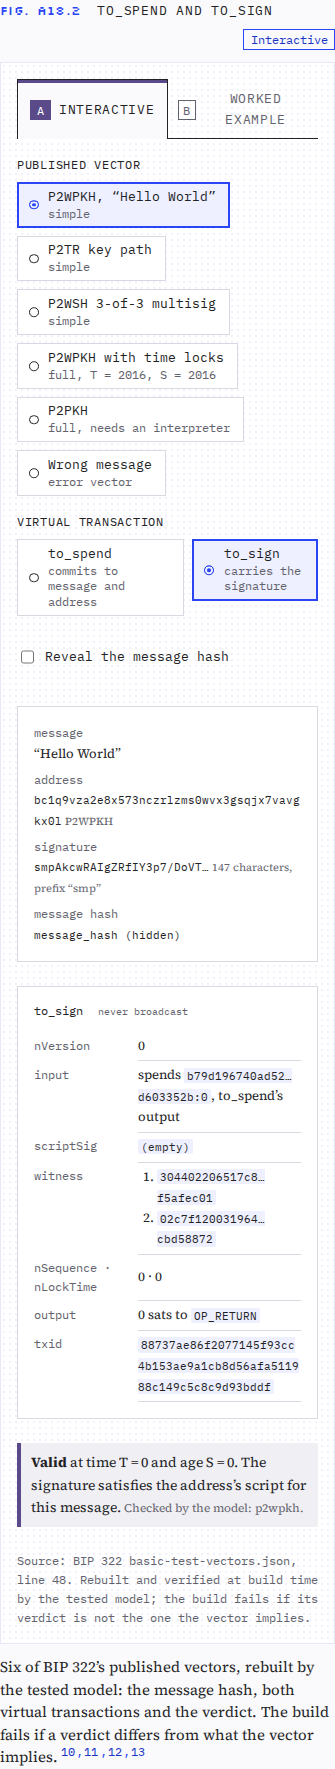
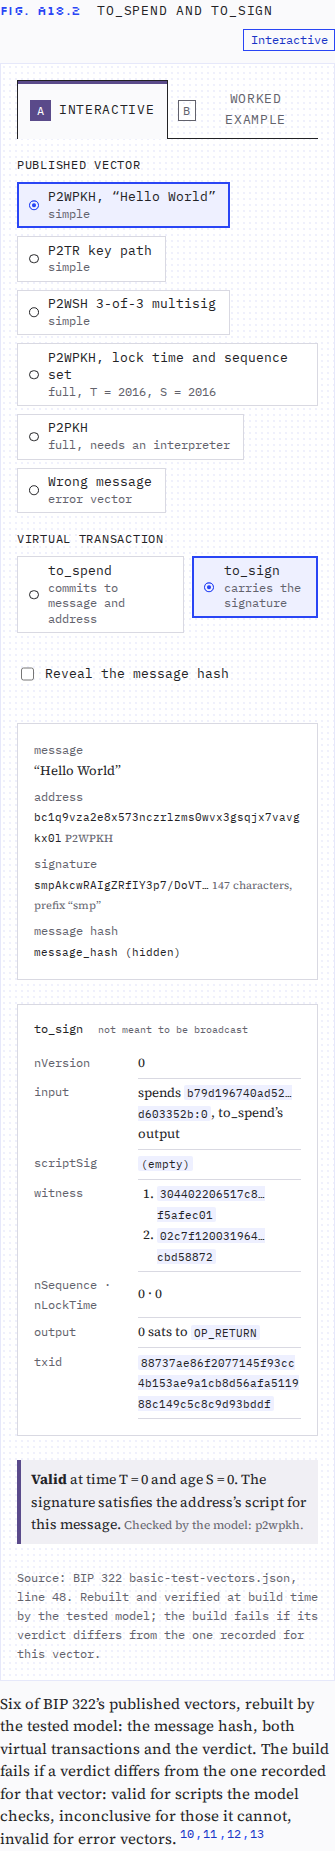
Message signing: apply independent review
P2TR sighash restriction, empty scriptSig for native SegWit, rule order,
extra-input and empty-witness verdicts (with regression tests); legacy
footnotes, required-rules list, lock-time exception, timestamp caveat and
recorded-verdict wording. Phase-three review record complete.

Claude-Session: https://claude.ai/code/session_01QKioyx8RLEZkE9rL1EegCS

diff --git a/packages/models/test/bip322.test.ts b/packages/models/test/bip322.test.ts
@@ -1,7 +1,12 @@
 import { readFileSync } from "node:fs";
 import { describe, expect, it } from "vitest";
 import { base64 } from "@scure/base";
-import { hexToBytes } from "../src/hex";
+import { schnorr } from "@noble/curves/secp256k1.js";
+import { sha256 } from "@noble/hashes/sha2.js";
+import { createBase58check } from "@scure/base";
+import { bytesToHex, hexToBytes } from "../src/hex";
+import { sigMsg, taprootSighash, tweakSeckey } from "../src/taproot";
+import { parseTransaction } from "../src/tx";
 import { addressScript, decodeSignature, messageHash, toSign, toSpend, verify } from "../src/bip322";
 
 const root = new URL("../../../", import.meta.url);
@@ -91,7 +96,7 @@ describe("message-signing chapter prose numbers", () => {
     expect(b322[17]).toContain("Version: 2.0.0");
     has("BIP 322, assigned in 2018 and recorded as Complete at version 2.0.0");
     expect(["smp", "ful", "pof"].every((p) => p.length === 3)).toBe(true);
-    has("each marked by a three-letter prefix");
+    has("each new format marked by a three-letter prefix");
     expect(b322[140]).toContain("vin[0].prevout.n = 0xFFFFFFFF");
     has("spends output 0xFFFFFFFF of a transaction whose ID is all zeros");
     expect(b322[331]).toContain("PSBT_GLOBAL_GENERIC_SIGNED_MESSAGE = 0x09");
@@ -106,11 +111,54 @@ describe("message-signing chapter prose numbers", () => {
     expect(w.length).toBe(5);
     expect(w[0]).toBe("");
     expect(w[w.length - 1]).toBe(ms.witness_script);
-    has("a 3-of-3 multisig address, whose “signature” is three ECDSA signatures and the witness script");
+    has("a 3-of-3 multisig address, whose “signature” is three ECDSA signatures, an empty dummy item and the witness script");
     expect(basic.simple.some((v: { bip322_signatures: string[] }) => v.bip322_signatures.some((s) => !/^(smp|ful|pof)/.test(s)))).toBe(true);
     has("one of the published vectors tests exactly that");
     const fx = JSON.parse(readFileSync(new URL("fixtures/message-signing.json", root), "utf8")).fixtures;
     expect(fx.filter((f: { kind: string }) => f.kind === "bip322-vector").length).toBe(6);
     has("Six of BIP 322’s published vectors");
+  });
+});
+
+describe("review regressions", () => {
+  // Test-only: re-sign the published P2TR vector's message with the vector's own (public) key and other sighash types.
+  const v = gen.simple[1];
+  const wif = createBase58check(sha256).decode(v.private_keys[0]);
+  const sk = bytesToHex(wif.slice(1, 33));
+  const dk = tweakSeckey(sk, "");
+  const spk = addressScript(v.address).spk;
+  const signWith = (ht: number) => {
+    const spend = toSpend(messageHash(v.message), spk);
+    const tx = parseTransaction(toSign(spend.txid, { witness: ["00".repeat(65)] }).witnessHex);
+    const digest = taprootSighash(sigMsg(tx, [{ scriptPubKeyHex: spk, amountSats: 0n }], 0, ht));
+    const sig = bytesToHex(schnorr.sign(hexToBytes(digest), hexToBytes(dk), new Uint8Array(32))) + ht.toString(16).padStart(2, "0");
+    return "smp" + base64.encode(Uint8Array.from([1, 65, ...hexToBytes(sig)]));
+  };
+
+  it("P2TR: SIGHASH_ALL is accepted, other hash types are invalid", () => {
+    expect(verify(v.address, v.message, signWith(0x01)).state).toBe("valid");
+    for (const ht of [0x02, 0x03, 0x81]) expect(verify(v.address, v.message, signWith(ht)).state).toBe("invalid");
+  });
+
+  it("P2TR: an empty witness is invalid", () => {
+    expect(verify(v.address, v.message, "smpAA==").state).toBe("invalid");
+  });
+
+  it("full P2WPKH with a non-empty scriptSig is invalid", () => {
+    const f = gen.full[1];
+    const hex = bytesToHex(base64.decode(f.bip322_signatures[0].slice(3)));
+    // version (8) + marker/flag (4) + input count (2) + outpoint (72), then the scriptSig length byte "00"
+    const at = 8 + 4 + 2 + 72;
+    expect(hex.slice(at, at + 2)).toBe("00");
+    const bad = hex.slice(0, at) + "020151" + hex.slice(at + 2);
+    expect(verify(f.address, f.message, f.bip322_signatures[0]).state).toBe("valid");
+    expect(verify(f.address, f.message, "ful" + base64.encode(hexToBytes(bad))).state).toBe("invalid");
+  });
+
+  it("required rules come before the version rule", () => {
+    const f = gen.full[1];
+    const hex = bytesToHex(base64.decode(f.bip322_signatures[0].slice(3)));
+    const v1 = "01000000" + hex.slice(8);
+    expect(verify(f.address, f.message, "ful" + base64.encode(hexToBytes(v1))).state).toBe("invalid");
   });
 });

diff --git a/packages/models/src/bip322.ts b/packages/models/src/bip322.ts
@@ -3,7 +3,14 @@
  * the two virtual transactions to_spend and to_sign, decoding of "simple"
  * and "full" signatures, and verification of the script types this model
  * can check without a script interpreter: P2WPKH, P2TR key path, and P2WSH
- * m-of-n CHECKMULTISIG. Everything else is reported as not checked.
+ * m-of-n CHECKMULTISIG. Everything else is reported as inconclusive.
+ *
+ * Required rules enforced for those types: SIGHASH_ALL (or SIGHASH_DEFAULT
+ * for P2TR); strict DER and low S for ECDSA; the CHECKMULTISIG dummy and
+ * exact witness shape (clean stack); an empty scriptSig for native SegWit.
+ * MINIMALDATA, MINIMALIF, CODESEPARATOR and FindAndDelete cannot arise in
+ * these templates. The upgradeable version rule (0 or 2) is applied after
+ * the script check, as the BIP orders them.
  *
  * Verification only: it never signs. Hashing from @noble/hashes, curves
  * from @noble/curves (ECDSA and BIP 340 verification), base58 and bech32
@@ -140,12 +147,13 @@ export function verify(address: string, message: string, signature: string): Ver
   const legacyHex = (() => { const v = tx.versionHex, lt = tx.locktimeHex; const ins = "01" + tx.inputs.map((i) => i.prevoutHex + push(i.scriptSigHex) + i.sequenceHex).join(""); return v + ins.replace(/^01/, varint(tx.inputs.length)) + varint(tx.outputs.length) + tx.outputs.map((o) => rev(o.valueSats.toString(16).padStart(16, "0")) + push(o.scriptPubKeyHex)).join("") + lt; })();
   sign.hex = legacyHex; sign.txid = txid(legacyHex);
   const version = parseInt(rev(tx.versionHex), 16);
-  if (version !== 0 && version !== 2) return { state: "inconclusive", reason: "to_sign version must be 0 or 2", toSpend: spend, toSign: sign, checked: "structure" };
   const w = tx.witnesses[0] ?? [];
   const T = parseInt(rev(tx.locktimeHex), 16), S = parseInt(rev(tx.inputs[0].sequenceHex), 16);
-  const valid = { state: "valid" as const, time: T, age: S };
+  // Upgradeable rule (checked after the required rules): version 0 or 2, else inconclusive.
+  const valid = version === 0 || version === 2 ? { state: "valid" as const, time: T, age: S } : { state: "inconclusive" as const, reason: "to_sign version must be 0 or 2" };
   const bad = (reason: string) => ({ state: "invalid" as const, reason, toSpend: spend, toSign: sign });
-  if (tx.inputs.length !== 1) return { state: "inconclusive", reason: "additional inputs are outside this model", toSpend: spend, toSign: sign, checked: "structure" };
+  if (tx.inputs.length !== 1) return { ...bad("a full signature cannot carry the UTXOs of additional inputs"), checked: "structure" };
+  if ((kind === "p2wpkh" || kind === "p2wsh" || kind === "p2tr") && tx.inputs[0].scriptSigHex !== "") return { ...bad("invalid signature: native SegWit requires an empty scriptSig"), checked: kind };
   if (kind === "p2wpkh") {
     const h = spk.slice(4);
     if (w.length !== 2 || bytesToHex(hash160(hexToBytes(w[1]))) !== h) return { ...bad("invalid signature: witness does not match the key hash"), checked: "p2wpkh" };
@@ -153,7 +161,10 @@ export function verify(address: string, message: string, signature: string): Ver
     return ecdsaOk(w[0], w[1], d) ? { ...valid, toSpend: spend, toSign: sign, checked: "p2wpkh" } : { ...bad("invalid signature"), checked: "p2wpkh" };
   }
   if (kind === "p2tr") {
-    if (w.length !== 1) return { state: "inconclusive", reason: "script-path spends are outside this model", toSpend: spend, toSign: sign, checked: "p2tr" };
+    if (w.length === 0) return { ...bad("invalid signature: empty witness"), checked: "p2tr" };
+    const annex = w.length === 2 && w[1].startsWith("50");
+    if (w.length !== 1 || annex) return { state: "inconclusive", reason: annex ? "an annex is outside this model" : "script-path spends are outside this model", toSpend: spend, toSign: sign, checked: "p2tr" };
+    if (w[0].length === 130 && !w[0].endsWith("01")) return { ...bad("invalid signature: sighash must be SIGHASH_ALL or SIGHASH_DEFAULT"), checked: "p2tr key path" };
     const ok = verifyKeyPath(spk.slice(4), w[0], (ht) => taprootSighash(sigMsg(tx, [{ scriptPubKeyHex: spk, amountSats: 0n }], 0, ht)));
     return ok ? { ...valid, toSpend: spend, toSign: sign, checked: "p2tr key path" } : { ...bad("invalid signature"), checked: "p2tr key path" };
   }

diff --git a/packages/figures/src/worked/Worked.tsx b/packages/figures/src/worked/Worked.tsx
@@ -583,14 +583,14 @@ export function Bip322Worked({ fixtures }: { fixtures: DerivedBip322Fixture[] })
   const d = f.derived;
   const steps: WorkedStep[] = [
     { title: "Hash the message with a tag", values: [{ label: "message", value: d.message || "(empty)" }, { label: "sha256_tag(\"BIP0322-signed-message\", m)", value: d.messageHash }], layer: { size: 0.6, tone: "wash", cells: 1 } },
-    { title: "to_spend commits to the hash and the address", values: [{ label: "scriptSig: OP_0 PUSH32", value: d.messageHash }, { label: "output script (the address)", value: d.toSpend.challenge }, { label: "to_spend txid", value: d.toSpend.txid }], note: "Its one input spends 000…000:FFFFFFFF, an output that cannot exist, so it can never be valid on chain.", layer: { size: 0.9, tone: "plain", cells: 2 } },
+    { title: "to_spend commits to the hash and the address", values: [{ label: "scriptSig: OP_0 PUSH32", value: d.messageHash }, { label: "output script (the address)", value: d.toSpend.challenge }, { label: "to_spend txid", value: d.toSpend.txid }], note: "Its one input spends 000…000:FFFFFFFF, an output that does not exist; it is built only to be checked.", layer: { size: 0.9, tone: "plain", cells: 2 } },
     { title: "to_sign spends it", values: [{ label: "input", value: `${d.toSpend.txid}:0` }, { label: "output", value: "0 sats to OP_RETURN" }], layer: { size: 0.8, tone: "hatch", cells: 2 } },
     { title: "The signature is to_sign’s witness", values: d.toSign.witness.map((w, i) => ({ label: `witness item ${i + 1}`, value: w || "(empty)" })), layer: { size: 0.55, tone: "accent", cells: Math.max(1, d.toSign.witness.length) } },
     { title: "Verify as if to_sign were spending a real coin", values: [{ label: "verdict", value: d.verdict.state === "valid" ? `valid at time ${d.verdict.time}, age ${d.verdict.age}` : `${d.verdict.state}: ${d.verdict.reason}` }], layer: { size: 0.7, tone: "plain", cells: 1 } },
   ];
   return (
     <WorkedExample
-      intro={<>BIP 322’s vector for the message “{d.message}”, signed for {d.address.slice(0, 14)}…: two transactions that are built only to be checked, never broadcast.</>}
+      intro={<>BIP 322’s vector for the message “{d.message}”, signed for {d.address.slice(0, 14)}…: two transactions built only to be checked, not to be broadcast.</>}
       steps={steps}
       label="Message hash, to_spend, to_sign, witness and verdict, drawn as stacked layers."
       source={<>Source: BIP 322 {f.source.file?.replace("bip-0322/", "")} (line {f.source.line}); rebuilt and verified by the tested model.</>}

diff --git a/packages/figures/src/bip322/Bip322VirtualTx.tsx b/packages/figures/src/bip322/Bip322VirtualTx.tsx
@@ -72,7 +72,7 @@ export function Bip322VirtualTx({ fixtures, figureId }: Props) {
       <div class="atlas-b322-txs" aria-live="polite">
         {views.includes("to_spend") ? (
           <section class="atlas-panel" aria-label="to_spend">
-            <h3 class="atlas-panel__title">to_spend <small>never broadcast</small></h3>
+            <h3 class="atlas-panel__title">to_spend <small>not meant to be broadcast</small></h3>
             <table class="atlas-b322-tx">
               <tbody>
                 <tr><th scope="row">nVersion</th><td>0</td></tr>
@@ -87,7 +87,7 @@ export function Bip322VirtualTx({ fixtures, figureId }: Props) {
         ) : null}
         {views.includes("to_sign") ? (
           <section class="atlas-panel" aria-label="to_sign">
-            <h3 class="atlas-panel__title">to_sign <small>never broadcast</small></h3>
+            <h3 class="atlas-panel__title">to_sign <small>not meant to be broadcast</small></h3>
             <table class="atlas-b322-tx">
               <tbody>
                 <tr><th scope="row">nVersion</th><td>{d.toSign.version}</td></tr>
@@ -109,7 +109,7 @@ export function Bip322VirtualTx({ fixtures, figureId }: Props) {
         {" "}<small>Checked by the model: {d.checked}.</small>
       </p>
       <p class="atlas-lab__source">
-        Source: BIP 322 {f.source.file?.replace("bip-0322/", "")}, line {f.source.line}. Rebuilt and verified at build time by the tested model; the build fails if its verdict is not the one the vector implies.
+        Source: BIP 322 {f.source.file?.replace("bip-0322/", "")}, line {f.source.line}. Rebuilt and verified at build time by the tested model; the build fails if its verdict differs from the one recorded for this vector.
       </p>
     </div>
   );

diff --git a/apps/site/src/lib/derive.ts b/apps/site/src/lib/derive.ts
@@ -1437,7 +1437,7 @@ function deriveBip322Formats(f: Bip322FormatsFixture): DerivedBip322FormatsFixtu
   const lines = pinnedText("bip-0322.mediawiki", SNAPSHOT_PHASE3).split("\n");
   const start = lines.findIndex((l) => l.startsWith("{| class=\"wikitable\""));
   const rows: DerivedBip322FormatsFixture["derived"]["rows"] = [];
-  const strip = (s: string) => s.replace(/<sup>\d<\/sup>/g, "").replace(/<br\/>/g, "").replace(/<\/?code>/g, "").replace(/^\|\s*/, "").trim();
+  const strip = (s: string) => s.replace(/<sup>1<\/sup>/g, "¹").replace(/<sup>2<\/sup>/g, "²").replace(/<br\/>/g, "").replace(/<\/?code>/g, "").replace(/^\|\s*/, "").trim();
   for (let i = start; i < lines.length && !lines[i].startsWith("|}"); i++) {
     if (lines[i] === "|-" && lines[i + 1]?.startsWith("| ") && !lines[i + 1].includes("style")) {
       const [name, scripts, prefix, format] = lines.slice(i + 1, i + 5).map(strip);

diff --git a/packages/figures/src/bip322/Bip322Verdicts.tsx b/packages/figures/src/bip322/Bip322Verdicts.tsx
@@ -11,7 +11,7 @@ export function Bip322Verdicts({ fixture }: { fixture: DerivedBip322VerdictsFixt
           <p class="atlas-b322-verdicts__detail">{r.detail}</p>
         </section>
       ))}
-      <p class="atlas-lab__source">Vectors from BIP 322’s test files, checked by the tested model. “Inconclusive” here means this model has no script interpreter for that script type, the case the BIP’s inconclusive state is for.</p>
+      <p class="atlas-lab__source">Vectors from BIP 322’s test files, checked by the tested model. “Inconclusive” here means this model has no script interpreter for that script type, one of the cases the BIP’s inconclusive state is for.</p>
     </div>
   );
 }

diff --git a/packages/figures/src/bip322/Bip322Formats.tsx b/packages/figures/src/bip322/Bip322Formats.tsx
@@ -14,7 +14,7 @@ export function Bip322Formats({ fixture }: { fixture: DerivedBip322FormatsFixtur
         </tbody>
       </table>
       </div>
-      <p class="atlas-lab__source">Read from BIP 322’s “Types of Signatures” table (from line {fixture.source.line}). Legacy is the old signmessage format, allowed only for P2PKH; P2WSH and P2TR in the simple format exclude time-lock scripts.</p>
+      <p class="atlas-lab__source">Read from BIP 322’s “Types of Signatures” table (from line {fixture.source.line}). ¹ Technically possible but SHOULD NOT be used; the legacy format MAY be used but MUST be restricted to P2PKH. ² Excluding time-lock scripts.</p>
     </div>
   );
 }

diff --git a/review/phase-three.md b/review/phase-three.md
@@ -277,3 +277,63 @@ The test and the build first parsed this CRLF file with `split("\n")`. That left
 | 10–19 (nits) | HKDF label in the salt. Header-flag tense and decoy scope. Exact payload rekey (0xffffffff nonce field) and the length cipher's next nonce. Version packets sent without waiting, possibly after decoys. Terminator rationale attributed. ElligatorSwift wording. Framing note per message. Rekey table says keys after 223 are the model's. `decPacket` doc. Stray `V1_HEADER` check removed. `session-id` scope set to author-rationale. 33-byte overhead without a short ID added to the prose (tested). | All applied. |
 
 **Visual and accessibility checks:** screenshots at 1440 and 375 cover the framing figure, the hero (start, stage 3 on mobile, application packet with comparison, decoy, no-JS), the rekey table and the worked tab. There is no overflow. axe-core is clean at 1440, 375, no-JS, the worked tab and three interactive states.
+
+## Chapter 18 — Message signing (BIP 322)
+
+**Model:** `packages/models/src/bip322.ts` does verification only. It covers:
+- the tagged message hash;
+- the to_spend and to_sign virtual transactions, with their txids;
+- mainnet address → script;
+- decoding of simple and full signatures (a missing prefix is read as simple).
+
+It verifies three script types: P2WPKH (BIP 143 digest, ECDSA with strict DER, low S, SIGHASH_ALL), P2TR key path (BIP 341 digest, SIGHASH_ALL or DEFAULT only) and P2WSH m-of-n CHECKMULTISIG (dummy, order-preserving matching, exact witness shape). Other script types return `inconclusive`, the BIP's state for a verifier without a script interpreter. Required rules come before the upgradeable version rule, as the BIP orders them. The model never signs. The review regressions re-sign with the published vector key inside `test/` only.
+
+**Sources:** the pinned `basic-test-vectors.json` and `generated-test-vectors.json`. The model:
+- reproduces all three message-hash and txid vectors;
+- returns `valid` for every simple and full vector of the three checked types, with T and S matching the vector's lock time and sequence;
+- returns `inconclusive` for the others;
+- returns `invalid` for all 36 error vectors.
+
+The build fails if a figure's verdict differs from the one recorded for its fixture.
+
+**Deliberate breakage:**
+
+| Breakage | Tests failing |
+|---|---|
+| Wrong tag | 21 |
+| No OP_0 in to_spend's scriptSig | 21 |
+| Prevout index 0 | 21 |
+| Empty output script | 11 |
+| Any sighash byte accepted | 1 (synthetic) |
+
+**Independent review: 2 must-fix, 12 should-fix, 11 nits. Applied:**
+
+| # | Finding | Change |
+|---|---|---|
+| 1 | P2TR accepted any sighash type | Rejects anything but ALL or DEFAULT. Regression test re-signs the vector's message with 0x02, 0x03 and 0x81. |
+| 2 | Full signature with a non-empty scriptSig on native SegWit was accepted | Rejected. Regression test edits the published full P2WPKH vector. |
+| 3 | Version rule ran before the required rules | Moved after them; regression test added. |
+| 4 | `ful` with extra inputs reported `inconclusive` | Now `invalid`: a full signature cannot carry their UTXOs. |
+| 5 | P2TR empty witness reported `inconclusive` | Now `invalid`. An annex is reported as out of scope. |
+| 6 | "the verdict the vector implies" was false for P2PKH | Caption, hero and ledger now say "the one recorded for that vector". |
+| 7 | The legacy row lost its footnotes | The table keeps ¹ and ². The note quotes the SHOULD NOT and MUST rules, and the caption says the BIP restricts legacy to P2PKH. |
+| 8–13 | Legacy limitation stated as fact; "each" format prefixed; required-rules list incomplete; nLockTime/nSequence exception; encode-choice quote; "as of the moment of signing" | All reworded with added quotes (L93–94, L250, L255–258, L301–306, L461). New editorial claim: a signature carries no timestamp. |
+| 14 | Model's rule coverage undisclosed | Module doc lists the rules enforced and why the others cannot arise. The prose says so too. |
+| 15–25 (nits) | "never broadcast" vs coinbase-shaped to_spend; full-format-only fields; dummy item; PSBT-field purpose; "very large" messages; "one of the cases"; fixture label "lock time and sequence set"; ledger scopes; simple quote L127 | All applied. Not changed: `addressScript` edge cases (odd v0 lengths, mixed case, base58 length) and unknown-prefix handling, which no published vector reaches. |
+
+**Visual and accessibility checks:** screenshots at 1440 and 375 cover:
+- the formats table;
+- the hero: to_spend, to_sign with T/S, multisig, wrong message, mobile, no-JS;
+- the verdicts;
+- the worked tab.
+
+There is no overflow. axe-core is clean at 1440, 375, no-JS, the worked tab and three interactive states.
+
+## Phase three summary
+
+Ten chapters, A9–A18. Each has a tested model with a deliberate-breakage table, pinned fixtures, a fail-closed derive step, a two-tab hero, one or two static figures, a ledger and prose within 1,100–1,800 words (with prose-number tests), screenshots, axe checks and one independent review.
+
+Not done:
+- a human sign-off;
+- screen-reader passes;
+- tablet-width screenshots.
